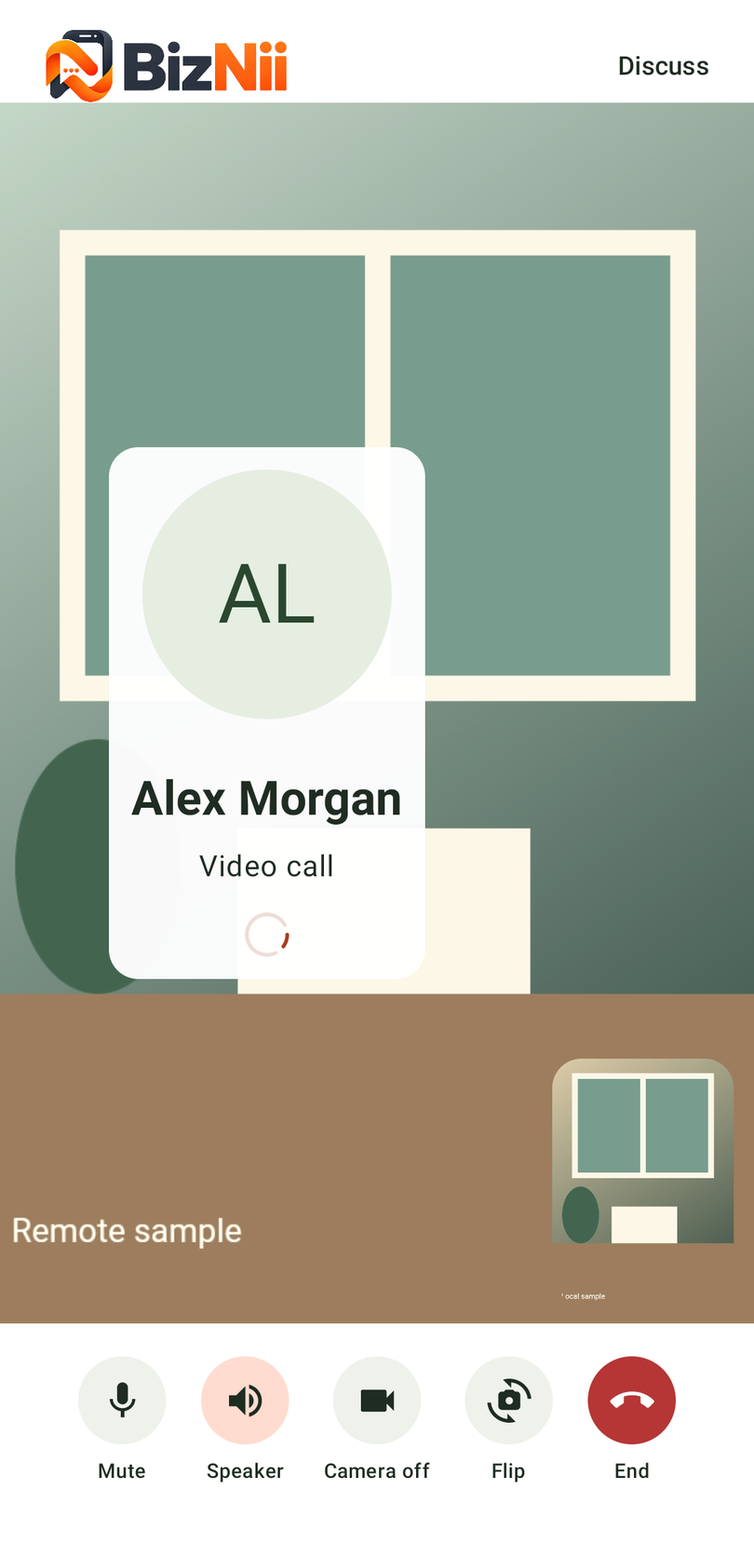
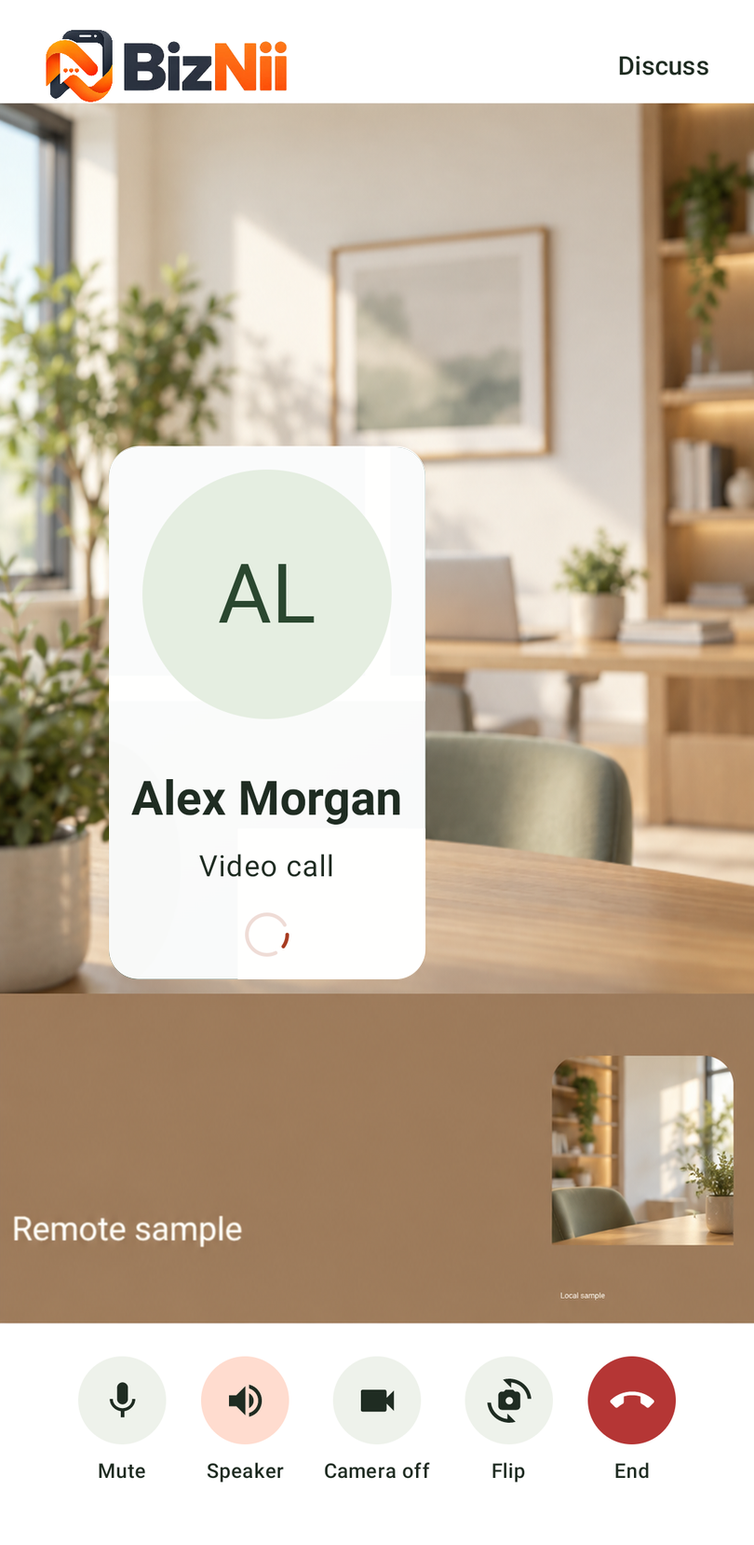
Refresh sample video backgrounds throughout Odoo website

diff --git a/odoo-mobile.html b/odoo-mobile.html
@@ -15,7 +15,7 @@
   <link rel="stylesheet" href="odoo-mobile-showcase.css?v=6326d0783b">
   <link rel="stylesheet" href="odoo-mobile-experience.css?v=240a3456dd">
   <script defer src="odoo-mobile-showcase.js?v=5b9981a362"></script>
-  <script defer src="odoo-mobile-experience.js?v=68d4886586"></script>
+  <script defer src="odoo-mobile-experience.js?v=640ca38b7c"></script>
 <link rel="canonical" href="https://biznii.com/odoo-mobile.html"></head>
 <body>
   <a class="skip" href="#main">Skip to content</a>
@@ -89,12 +89,12 @@
 <section class="section soft" id="calls"><div class="wrap">
   <div class="section-heading wide"><p class="eyebrow">DISCUSS / ONE-TO-ONE CALLS</p><h2>A quick question.<br><em>A familiar voice.</em></h2><p class="lead">Move from a private chat to a voice or video call. Connect with another BizNii user, or a colleague in standard Odoo Discuss on a supported PC browser configuration.</p></div>
   <div class="call-story-grid"><article><h3>Answer straight from the ring</h3><p>See who is calling. Answer a video invitation with video or choose audio only. With background listening enabled and Android delivery permitted, incoming calls can reach you outside the chat and on the lock screen.</p><a class="zoom" href="assets/odoo/showcase/call-incoming-video.png"><img src="assets/odoo/showcase/call-incoming-video.png" alt="Alex Morgan’s incoming video call with Answer video, Audio only and Decline choices" loading="lazy" width="810" height="1658"></a></article>
-  <article><h3>Keep the controls in reach</h3><p>Mute, choose speaker output, switch cameras or turn video off. Remote video and your small local preview stay clear of the controls; connection status appears beneath the call identity.</p><a class="zoom" href="assets/odoo/showcase/call-video.png"><img src="assets/odoo/showcase/call-video.png" alt="Active video call with controlled sample media, local preview above mute, speaker, camera and end controls" loading="lazy" width="810" height="1658"></a></article>
+  <article><h3>Keep the controls in reach</h3><p>Mute, choose speaker output, switch cameras or turn video off. Remote video and your small local preview stay clear of the controls; connection status appears beneath the call identity.</p><a class="zoom" href="assets/odoo/showcase/call-video.png?v=office-20261027"><img src="assets/odoo/showcase/call-video.png?v=office-20261027" alt="Active video call with controlled sample media, local preview above mute, speaker, camera and end controls" loading="lazy" width="810" height="1658"></a></article>
   <article><h3>Your app, your appearance</h3><p>Choose Light, Dark or System, with optional Android dynamic colours. The same call surface follows your appearance when opened from the foreground or a background invitation.</p><a class="zoom" href="assets/odoo/showcase/call-incoming-video-dark.png"><img src="assets/odoo/showcase/call-incoming-video-dark.png" alt="The same incoming Alex Morgan video invitation using the app’s Dark appearance" loading="lazy" width="810" height="1658"></a></article></div>
   <p class="fine">One-to-one calls require a supported regular Odoo 16–20 release and username/password sign-in. Odoo 14/15, API-key connections and unsupported rolling Online builds do not support calling. Wi-Fi and mobile-data connectivity depend on the network path and Odoo’s configured services; some networks need an available relay. <a href="#boundaries">Connection and background requirements ↓</a></p>
 </div></section>
 
-<section class="section soft" id="explore"><div class="wrap experience-grid"><div class="experience-copy"><p class="eyebrow">YOUR WORKSPACE, AT YOUR FINGERTIPS</p><h2>A little less tapping.<br><em>A lot more doing.</em></h2><p class="lead">Overview, To Do, Sales, Money and More. Your everyday Odoo work, organised around the way you use it.</p><p class="screen-instruction">Tap the tabs, cards and highlighted actions to explore real app screens with sample data. These examples stay on this page; no Odoo account is connected. Call media uses controlled sample scenes.</p><div class="native-tabs" role="tablist" aria-label="App workspaces"><button id="workspace-overview" role="tab" aria-selected="true" aria-controls="native-panel" data-screen="overview">Overview</button><button id="workspace-todo" role="tab" aria-selected="false" aria-controls="native-panel" tabindex="-1" data-screen="todo">To Do</button><button id="workspace-sales" role="tab" aria-selected="false" aria-controls="native-panel" tabindex="-1" data-screen="sales">Sales</button><button id="workspace-money" role="tab" aria-selected="false" aria-controls="native-panel" tabindex="-1" data-screen="money">Money</button><button id="workspace-more" role="tab" aria-selected="false" aria-controls="native-panel" tabindex="-1" data-screen="more">More</button></div><div class="native-description" aria-live="polite"><h3 id="native-title">Your business overview</h3><p id="native-description">Follow outstanding invoices, financial summaries and your next actions in one place.</p></div><div class="native-subtabs" id="sales-screen-tabs" role="group" aria-label="Sales pages" hidden><button data-screen="sales" aria-pressed="true">Quotations</button><button data-screen="orders" aria-pressed="false">Orders</button><button data-screen="products" aria-pressed="false">Products</button></div><div class="native-subtabs" id="more-screen-tabs" role="group" aria-label="More pages" hidden><button data-screen="more" aria-pressed="true">All tools</button><button data-screen="customers" aria-pressed="false">Customers</button><button data-screen="customer-history" aria-pressed="false">Customer history</button><button data-screen="calendar" aria-pressed="false">Calendar</button><button data-screen="discuss-list" aria-pressed="false">Discuss</button><button data-screen="incoming-video" aria-pressed="false">Calls</button><button data-screen="stock" aria-pressed="false">Stock</button><button data-screen="purchasing" aria-pressed="false">Purchasing</button></div><a class="text-link" href="#feature-directory">Find your workflow ↗</a></div><div class="phone-wrap"><figure class="native-phone" id="native-panel" role="tabpanel" aria-labelledby="workspace-overview"><div class="phone-explore-controls"><button id="phone-back" type="button" disabled aria-label="Previous app screen">← Back</button><button id="phone-hints" type="button" aria-pressed="true">Show tap areas</button></div><div class="native-screen"><img id="native-screen-image" src="assets/odoo/showcase/workspace-overview.png" alt="BizNii for Odoo Overview workspace" width="810" height="1658"><div id="phone-hotspots" class="phone-hotspots hints-on" aria-label="Screen actions"></div><nav class="native-phone-tabs" aria-label="Phone workspace navigation"><button data-screen="overview" aria-label="Open Overview" aria-current="page"></button><button data-screen="todo" aria-label="Open To Do"></button><button data-screen="sales" aria-label="Open Sales"></button><button data-screen="money" aria-label="Open Money"></button><button data-screen="more" aria-label="Open More"></button></nav></div><figcaption id="native-caption" aria-live="polite">Overview</figcaption></figure></div></div></section>
+<section class="section soft" id="explore"><div class="wrap experience-grid"><div class="experience-copy"><p class="eyebrow">YOUR WORKSPACE, AT YOUR FINGERTIPS</p><h2>A little less tapping.<br><em>A lot more doing.</em></h2><p class="lead">Overview, To Do, Sales, Money and More. Your everyday Odoo work, organised around the way you use it.</p><p class="screen-instruction">Tap the tabs, cards and highlighted actions to explore real app screens with sample data. These examples stay on this page; no Odoo account is connected. Call media uses illustrative sample backgrounds.</p><div class="native-tabs" role="tablist" aria-label="App workspaces"><button id="workspace-overview" role="tab" aria-selected="true" aria-controls="native-panel" data-screen="overview">Overview</button><button id="workspace-todo" role="tab" aria-selected="false" aria-controls="native-panel" tabindex="-1" data-screen="todo">To Do</button><button id="workspace-sales" role="tab" aria-selected="false" aria-controls="native-panel" tabindex="-1" data-screen="sales">Sales</button><button id="workspace-money" role="tab" aria-selected="false" aria-controls="native-panel" tabindex="-1" data-screen="money">Money</button><button id="workspace-more" role="tab" aria-selected="false" aria-controls="native-panel" tabindex="-1" data-screen="more">More</button></div><div class="native-description" aria-live="polite"><h3 id="native-title">Your business overview</h3><p id="native-description">Follow outstanding invoices, financial summaries and your next actions in one place.</p></div><div class="native-subtabs" id="sales-screen-tabs" role="group" aria-label="Sales pages" hidden><button data-screen="sales" aria-pressed="true">Quotations</button><button data-screen="orders" aria-pressed="false">Orders</button><button data-screen="products" aria-pressed="false">Products</button></div><div class="native-subtabs" id="more-screen-tabs" role="group" aria-label="More pages" hidden><button data-screen="more" aria-pressed="true">All tools</button><button data-screen="customers" aria-pressed="false">Customers</button><button data-screen="customer-history" aria-pressed="false">Customer history</button><button data-screen="calendar" aria-pressed="false">Calendar</button><button data-screen="discuss-list" aria-pressed="false">Discuss</button><button data-screen="incoming-video" aria-pressed="false">Calls</button><button data-screen="stock" aria-pressed="false">Stock</button><button data-screen="purchasing" aria-pressed="false">Purchasing</button></div><a class="text-link" href="#feature-directory">Find your workflow ↗</a></div><div class="phone-wrap"><figure class="native-phone" id="native-panel" role="tabpanel" aria-labelledby="workspace-overview"><div class="phone-explore-controls"><button id="phone-back" type="button" disabled aria-label="Previous app screen">← Back</button><button id="phone-hints" type="button" aria-pressed="true">Show tap areas</button></div><div class="native-screen"><img id="native-screen-image" src="assets/odoo/showcase/workspace-overview.png" alt="BizNii for Odoo Overview workspace" width="810" height="1658"><div id="phone-hotspots" class="phone-hotspots hints-on" aria-label="Screen actions"></div><nav class="native-phone-tabs" aria-label="Phone workspace navigation"><button data-screen="overview" aria-label="Open Overview" aria-current="page"></button><button data-screen="todo" aria-label="Open To Do"></button><button data-screen="sales" aria-label="Open Sales"></button><button data-screen="money" aria-label="Open Money"></button><button data-screen="more" aria-label="Open More"></button></nav></div><figcaption id="native-caption" aria-live="polite">Overview</figcaption></figure></div></div></section>
 <section class="section widgets-v2" id="widgets"><div class="wrap">
   <div class="widget-showcase-head"><p class="eyebrow">YOUR ANDROID HOME SCREEN</p><h2>Useful information before you even open the app.</h2><p>Move through the months, open a day’s work or follow a conversation. Your next action is always close.</p></div>
   <div class="widget-controls"><div class="widget-switcher" role="group" aria-label="Choose a home-screen widget"><button class="widget-switch active" data-widget="calendar" aria-pressed="true">Calendar widget</button><button class="widget-switch" data-widget="discuss" aria-pressed="false">Discuss widget</button></div><div class="widget-theme-switch" role="group" aria-label="Widget appearance"><button data-widget-theme="light" aria-pressed="true">Light</button><button data-widget-theme="dark" aria-pressed="false">Dark</button></div></div>
@@ -114,7 +114,7 @@
   <dialog id="widget-note-dialog" class="experience-dialog"><form id="widget-note-form"><div class="dialog-heading"><h3>Add a quick note</h3><button type="button" data-close-note aria-label="Close quick note">×</button></div><label for="note-title">Task</label><input id="note-title" required maxlength="80" placeholder="Follow up with a customer"><label for="note-date">Date</label><input id="note-date" type="date" required><label for="note-colour">Task colour</label><select id="note-colour"><option value="green">Green</option><option value="blue">Blue</option><option value="coral">Coral</option><option value="purple">Purple</option></select><p class="sample-note">This adds a sample task to the calendar on this page.</p><button type="submit" class="experience-action">Add to calendar</button></form></dialog>
 </div></section>
 
-<section class="section wrap" id="screens"><div class="section-heading"><p class="eyebrow">THE SCREEN GALLERY</p><h2>Work that travels<br><em>with you.</em></h2><p>Open any screen to inspect it. Explore calls and appearance above, and all calendar modes in the phone.</p></div><div class="gallery-filters" role="group" aria-label="Screen categories"><button type="button" data-gallery-filter="all" aria-pressed="true">All screens</button><button type="button" data-gallery-filter="work" aria-pressed="false">Business</button><button type="button" data-gallery-filter="field" aria-pressed="false">Field & calendar</button><button type="button" data-gallery-filter="stock" aria-pressed="false">Stock & purchases</button><button type="button" data-gallery-filter="team" aria-pressed="false">Discuss & calls</button><button type="button" data-gallery-filter="widgets" aria-pressed="false">Widgets</button></div><p id="gallery-count" class="fine" role="status"></p><div class="capture-grid"><figure data-gallery-category="work"><a class="zoom" href="assets/odoo/showcase/workspace-overview.png"><img src="assets/odoo/showcase/workspace-overview.png" alt="BizNii your business overview: outstanding balances and business performance" loading="lazy" width="810" height="1658"><span>View screenshot ↗</span></a><figcaption><strong>Your business overview</strong><small>Outstanding balances and business performance</small></figcaption></figure><figure data-gallery-category="field"><a class="zoom" href="assets/odoo/showcase/workspace-todo.png"><img src="assets/odoo/showcase/workspace-todo.png" alt="BizNii the next job: customer-linked to dos and planned work" loading="lazy" width="810" height="1658"><span>View screenshot ↗</span></a><figcaption><strong>The next job</strong><small>Customer-linked To Dos and planned work</small></figcaption></figure><figure data-gallery-category="field"><a class="zoom" href="assets/odoo/showcase/job.png"><img src="assets/odoo/showcase/job.png" alt="BizNii carry the job context: materials, linked delivery and job evidence" loading="lazy" width="810" height="1658"><span>View screenshot ↗</span></a><figcaption><strong>Carry the job context</strong><small>Materials, linked delivery and job evidence</small></figcaption></figure><figure data-gallery-category="field"><a class="zoom" href="assets/odoo/showcase/workspace-calendar.png"><img src="assets/odoo/showcase/workspace-calendar.png" alt="BizNii give work its time: day, week and month views in the phone navigator" loading="lazy" width="810" height="1658"><span>View screenshot ↗</span></a><figcaption><strong>Give work its time</strong><small>Day, Week and Month views in the phone navigator</small></figcaption></figure><figure data-gallery-category="work"><a class="zoom" href="assets/odoo/showcase/workspace-customer-detail.png"><img src="assets/odoo/showcase/workspace-customer-detail.png" alt="BizNii know your customer: profile, contact actions and documents" loading="lazy" width="810" height="1658"><span>View screenshot ↗</span></a><figcaption><strong>Know your customer</strong><small>Profile, contact actions and documents</small></figcaption></figure><figure data-gallery-category="work"><a class="zoom" href="assets/odoo/showcase/workspace-customer-history.png"><img src="assets/odoo/showcase/workspace-customer-history.png" alt="BizNii follow the history: related tasks, quotations and invoices" loading="lazy" width="810" height="1658"><span>View screenshot ↗</span></a><figcaption><strong>Follow the history</strong><small>Related tasks, quotations and invoices</small></figcaption></figure><figure data-gallery-category="work"><a class="zoom" href="assets/odoo/showcase/workspace-quotation-editor.png"><img src="assets/odoo/showcase/workspace-quotation-editor.png" alt="BizNii prepare the quotation: customer, reference and product lines" loading="lazy" width="810" height="1658"><span>View screenshot ↗</span></a><figcaption><strong>Prepare the quotation</strong><small>Customer, reference and product lines</small></figcaption></figure><figure data-gallery-category="work"><a class="zoom" href="assets/odoo/showcase/workspace-money.png"><img src="assets/odoo/showcase/workspace-money.png" alt="BizNii see what is due: invoice states and amounts in money" loading="lazy" width="810" height="1658"><span>View screenshot ↗</span></a><figcaption><strong>See what is due</strong><small>Invoice states and amounts in Money</small></figcaption></figure><figure data-gallery-category="stock"><a class="zoom" href="assets/odoo/showcase/workspace-purchasing.png"><img src="assets/odoo/showcase/workspace-purchasing.png" alt="BizNii prepare replenishment: supplier rfqs and expected arrivals" loading="lazy" width="810" height="1658"><span>View screenshot ↗</span></a><figcaption><strong>Prepare replenishment</strong><small>Supplier RFQs and expected arrivals</small></figcaption></figure><figure data-gallery-category="stock"><a class="zoom" href="assets/odoo/showcase/workspace-deliveries.png"><img src="assets/odoo/showcase/workspace-deliveries.png" alt="BizNii follow the delivery: transfer states and related orders" loading="lazy" width="810" height="1658"><span>View screenshot ↗</span></a><figcaption><strong>Follow the delivery</strong><small>Transfer states and related orders</small></figcaption></figure><figure data-gallery-category="stock"><a class="zoom" href="assets/odoo/showcase/workspace-van-stock.png"><img src="assets/odoo/showcase/workspace-van-stock.png" alt="BizNii bring the right materials: on-hand, reserved and available quantities" loading="lazy" width="810" height="1658"><span>View screenshot ↗</span></a><figcaption><strong>Bring the right materials</strong><small>On-hand, reserved and available quantities</small></figcaption></figure><figure data-gallery-category="stock"><a class="zoom" href="assets/odoo/showcase/workspace-kits.png"><img src="assets/odoo/showcase/workspace-kits.png" alt="BizNii keep components together: supported kits and bills of materials" loading="lazy" width="810" height="1658"><span>View screenshot ↗</span></a><figcaption><strong>Keep components together</strong><small>Supported kits and bills of materials</small></figcaption></figure><figure data-gallery-category="stock"><a class="zoom" href="assets/odoo/showcase/workspace-warranties.png"><img src="assets/odoo/showcase/workspace-warranties.png" alt="BizNii trace the installation: serial numbers, warranty dates and local certificates" loading="lazy" width="810" height="1658"><span>View screenshot ↗</span></a><figcaption><strong>Trace the installation</strong><small>Serial numbers, warranty dates and local certificates</small></figcaption></figure><figure data-gallery-category="team"><a class="zoom" href="assets/odoo/showcase/discuss-list.png"><img src="assets/odoo/showcase/discuss-list.png" alt="BizNii find the conversation: chats, inbox and mentions" loading="lazy" width="810" height="1658"><span>View screenshot ↗</span></a><figcaption><strong>Find the conversation</strong><small>Chats, Inbox and Mentions</small></figcaption></figure><figure data-gallery-category="team"><a class="zoom" href="assets/odoo/showcase/discussion.png"><img src="assets/odoo/showcase/discussion.png" alt="BizNii keep in touch: private messages in odoo discuss" loading="lazy" width="810" height="1658"><span>View screenshot ↗</span></a><figcaption><strong>Keep in touch</strong><small>Private messages in Odoo Discuss</small></figcaption></figure><figure data-gallery-category="team"><a class="zoom" href="assets/odoo/showcase/call-incoming-voice.png"><img src="assets/odoo/showcase/call-incoming-voice.png" alt="BizNii see who is calling: named incoming voice call" loading="lazy" width="810" height="1658"><span>View screenshot ↗</span></a><figcaption><strong>See who is calling</strong><small>Named incoming voice call</small></figcaption></figure><figure data-gallery-category="team"><a class="zoom" href="assets/odoo/showcase/call-voice.png"><img src="assets/odoo/showcase/call-voice.png" alt="BizNii stay in control: mute, speaker and end controls" loading="lazy" width="810" height="1658"><span>View screenshot ↗</span></a><figcaption><strong>Stay in control</strong><small>Mute, speaker and end controls</small></figcaption></figure><figure data-gallery-category="team"><a class="zoom" href="assets/odoo/showcase/call-video-connecting.png"><img src="assets/odoo/showcase/call-video-connecting.png" alt="BizNii know the connection state: indicator and local preview clear of controls" loading="lazy" width="810" height="1658"><span>View screenshot ↗</span></a><figcaption><strong>Know the connection state</strong><small>Indicator and local preview clear of controls</small></figcaption></figure><figure data-gallery-category="widgets"><a class="zoom" href="assets/odoo/showcase/widget-calendar.png"><img src="assets/odoo/showcase/widget-calendar.png" alt="BizNii your month at a glance: native monthly activity widget" loading="lazy" width="810" height="1013"><span>View screenshot ↗</span></a><figcaption><strong>Your month at a glance</strong><small>Native monthly activity widget</small></figcaption></figure><figure data-gallery-category="widgets"><a class="zoom" href="assets/odoo/showcase/widget-discuss.png"><img src="assets/odoo/showcase/widget-discuss.png" alt="BizNii a conversation away: native discuss rows and private-call shortcuts" loading="lazy" width="810" height="1013"><span>View screenshot ↗</span></a><figcaption><strong>A conversation away</strong><small>Native Discuss rows and private-call shortcuts</small></figcaption></figure><figure data-gallery-category="field"><a class="zoom" href="assets/odoo/showcase/offline.png"><img src="assets/odoo/showcase/offline.png" alt="BizNii keep supported work moving: queued offline task with visible sync state" loading="lazy" width="810" height="1658"><span>View screenshot ↗</span></a><figcaption><strong>Keep supported work moving</strong><small>Queued offline task with visible sync state</small></figcaption></figure></div><p class="fine">Screens use fictional sample data. Widget examples demonstrate their native appearance; the interactive examples use page-local sample records.</p></section>
+<section class="section wrap" id="screens"><div class="section-heading"><p class="eyebrow">THE SCREEN GALLERY</p><h2>Work that travels<br><em>with you.</em></h2><p>Open any screen to inspect it. Explore calls and appearance above, and all calendar modes in the phone.</p></div><div class="gallery-filters" role="group" aria-label="Screen categories"><button type="button" data-gallery-filter="all" aria-pressed="true">All screens</button><button type="button" data-gallery-filter="work" aria-pressed="false">Business</button><button type="button" data-gallery-filter="field" aria-pressed="false">Field & calendar</button><button type="button" data-gallery-filter="stock" aria-pressed="false">Stock & purchases</button><button type="button" data-gallery-filter="team" aria-pressed="false">Discuss & calls</button><button type="button" data-gallery-filter="widgets" aria-pressed="false">Widgets</button></div><p id="gallery-count" class="fine" role="status"></p><div class="capture-grid"><figure data-gallery-category="work"><a class="zoom" href="assets/odoo/showcase/workspace-overview.png"><img src="assets/odoo/showcase/workspace-overview.png" alt="BizNii your business overview: outstanding balances and business performance" loading="lazy" width="810" height="1658"><span>View screenshot ↗</span></a><figcaption><strong>Your business overview</strong><small>Outstanding balances and business performance</small></figcaption></figure><figure data-gallery-category="field"><a class="zoom" href="assets/odoo/showcase/workspace-todo.png"><img src="assets/odoo/showcase/workspace-todo.png" alt="BizNii the next job: customer-linked to dos and planned work" loading="lazy" width="810" height="1658"><span>View screenshot ↗</span></a><figcaption><strong>The next job</strong><small>Customer-linked To Dos and planned work</small></figcaption></figure><figure data-gallery-category="field"><a class="zoom" href="assets/odoo/showcase/job.png"><img src="assets/odoo/showcase/job.png" alt="BizNii carry the job context: materials, linked delivery and job evidence" loading="lazy" width="810" height="1658"><span>View screenshot ↗</span></a><figcaption><strong>Carry the job context</strong><small>Materials, linked delivery and job evidence</small></figcaption></figure><figure data-gallery-category="field"><a class="zoom" href="assets/odoo/showcase/workspace-calendar.png"><img src="assets/odoo/showcase/workspace-calendar.png" alt="BizNii give work its time: day, week and month views in the phone navigator" loading="lazy" width="810" height="1658"><span>View screenshot ↗</span></a><figcaption><strong>Give work its time</strong><small>Day, Week and Month views in the phone navigator</small></figcaption></figure><figure data-gallery-category="work"><a class="zoom" href="assets/odoo/showcase/workspace-customer-detail.png"><img src="assets/odoo/showcase/workspace-customer-detail.png" alt="BizNii know your customer: profile, contact actions and documents" loading="lazy" width="810" height="1658"><span>View screenshot ↗</span></a><figcaption><strong>Know your customer</strong><small>Profile, contact actions and documents</small></figcaption></figure><figure data-gallery-category="work"><a class="zoom" href="assets/odoo/showcase/workspace-customer-history.png"><img src="assets/odoo/showcase/workspace-customer-history.png" alt="BizNii follow the history: related tasks, quotations and invoices" loading="lazy" width="810" height="1658"><span>View screenshot ↗</span></a><figcaption><strong>Follow the history</strong><small>Related tasks, quotations and invoices</small></figcaption></figure><figure data-gallery-category="work"><a class="zoom" href="assets/odoo/showcase/workspace-quotation-editor.png"><img src="assets/odoo/showcase/workspace-quotation-editor.png" alt="BizNii prepare the quotation: customer, reference and product lines" loading="lazy" width="810" height="1658"><span>View screenshot ↗</span></a><figcaption><strong>Prepare the quotation</strong><small>Customer, reference and product lines</small></figcaption></figure><figure data-gallery-category="work"><a class="zoom" href="assets/odoo/showcase/workspace-money.png"><img src="assets/odoo/showcase/workspace-money.png" alt="BizNii see what is due: invoice states and amounts in money" loading="lazy" width="810" height="1658"><span>View screenshot ↗</span></a><figcaption><strong>See what is due</strong><small>Invoice states and amounts in Money</small></figcaption></figure><figure data-gallery-category="stock"><a class="zoom" href="assets/odoo/showcase/workspace-purchasing.png"><img src="assets/odoo/showcase/workspace-purchasing.png" alt="BizNii prepare replenishment: supplier rfqs and expected arrivals" loading="lazy" width="810" height="1658"><span>View screenshot ↗</span></a><figcaption><strong>Prepare replenishment</strong><small>Supplier RFQs and expected arrivals</small></figcaption></figure><figure data-gallery-category="stock"><a class="zoom" href="assets/odoo/showcase/workspace-deliveries.png"><img src="assets/odoo/showcase/workspace-deliveries.png" alt="BizNii follow the delivery: transfer states and related orders" loading="lazy" width="810" height="1658"><span>View screenshot ↗</span></a><figcaption><strong>Follow the delivery</strong><small>Transfer states and related orders</small></figcaption></figure><figure data-gallery-category="stock"><a class="zoom" href="assets/odoo/showcase/workspace-van-stock.png"><img src="assets/odoo/showcase/workspace-van-stock.png" alt="BizNii bring the right materials: on-hand, reserved and available quantities" loading="lazy" width="810" height="1658"><span>View screenshot ↗</span></a><figcaption><strong>Bring the right materials</strong><small>On-hand, reserved and available quantities</small></figcaption></figure><figure data-gallery-category="stock"><a class="zoom" href="assets/odoo/showcase/workspace-kits.png"><img src="assets/odoo/showcase/workspace-kits.png" alt="BizNii keep components together: supported kits and bills of materials" loading="lazy" width="810" height="1658"><span>View screenshot ↗</span></a><figcaption><strong>Keep components together</strong><small>Supported kits and bills of materials</small></figcaption></figure><figure data-gallery-category="stock"><a class="zoom" href="assets/odoo/showcase/workspace-warranties.png"><img src="assets/odoo/showcase/workspace-warranties.png" alt="BizNii trace the installation: serial numbers, warranty dates and local certificates" loading="lazy" width="810" height="1658"><span>View screenshot ↗</span></a><figcaption><strong>Trace the installation</strong><small>Serial numbers, warranty dates and local certificates</small></figcaption></figure><figure data-gallery-category="team"><a class="zoom" href="assets/odoo/showcase/discuss-list.png"><img src="assets/odoo/showcase/discuss-list.png" alt="BizNii find the conversation: chats, inbox and mentions" loading="lazy" width="810" height="1658"><span>View screenshot ↗</span></a><figcaption><strong>Find the conversation</strong><small>Chats, Inbox and Mentions</small></figcaption></figure><figure data-gallery-category="team"><a class="zoom" href="assets/odoo/showcase/discussion.png"><img src="assets/odoo/showcase/discussion.png" alt="BizNii keep in touch: private messages in odoo discuss" loading="lazy" width="810" height="1658"><span>View screenshot ↗</span></a><figcaption><strong>Keep in touch</strong><small>Private messages in Odoo Discuss</small></figcaption></figure><figure data-gallery-category="team"><a class="zoom" href="assets/odoo/showcase/call-incoming-voice.png"><img src="assets/odoo/showcase/call-incoming-voice.png" alt="BizNii see who is calling: named incoming voice call" loading="lazy" width="810" height="1658"><span>View screenshot ↗</span></a><figcaption><strong>See who is calling</strong><small>Named incoming voice call</small></figcaption></figure><figure data-gallery-category="team"><a class="zoom" href="assets/odoo/showcase/call-voice.png"><img src="assets/odoo/showcase/call-voice.png" alt="BizNii stay in control: mute, speaker and end controls" loading="lazy" width="810" height="1658"><span>View screenshot ↗</span></a><figcaption><strong>Stay in control</strong><small>Mute, speaker and end controls</small></figcaption></figure><figure data-gallery-category="team"><a class="zoom" href="assets/odoo/showcase/call-video-connecting.png?v=office-20261027"><img src="assets/odoo/showcase/call-video-connecting.png?v=office-20261027" alt="BizNii know the connection state: indicator and local preview clear of controls" loading="lazy" width="810" height="1658"><span>View screenshot ↗</span></a><figcaption><strong>Know the connection state</strong><small>Indicator and local preview clear of controls</small></figcaption></figure><figure data-gallery-category="widgets"><a class="zoom" href="assets/odoo/showcase/widget-calendar.png"><img src="assets/odoo/showcase/widget-calendar.png" alt="BizNii your month at a glance: native monthly activity widget" loading="lazy" width="810" height="1013"><span>View screenshot ↗</span></a><figcaption><strong>Your month at a glance</strong><small>Native monthly activity widget</small></figcaption></figure><figure data-gallery-category="widgets"><a class="zoom" href="assets/odoo/showcase/widget-discuss.png"><img src="assets/odoo/showcase/widget-discuss.png" alt="BizNii a conversation away: native discuss rows and private-call shortcuts" loading="lazy" width="810" height="1013"><span>View screenshot ↗</span></a><figcaption><strong>A conversation away</strong><small>Native Discuss rows and private-call shortcuts</small></figcaption></figure><figure data-gallery-category="field"><a class="zoom" href="assets/odoo/showcase/offline.png"><img src="assets/odoo/showcase/offline.png" alt="BizNii keep supported work moving: queued offline task with visible sync state" loading="lazy" width="810" height="1658"><span>View screenshot ↗</span></a><figcaption><strong>Keep supported work moving</strong><small>Queued offline task with visible sync state</small></figcaption></figure></div><p class="fine">Screens use fictional sample data. Widget examples demonstrate their native appearance; the interactive examples use page-local sample records.</p></section>
 <section class="section wrap" id="in-action"><div class="section-heading"><p class="eyebrow">INSIDE THE APP</p><h2>From your desk<br><em>to the next job.</em></h2><p>Explore the screen gallery and the interactive phone. Each example uses fictional business data.</p><a class="text-link" href="#screens">Open the screen gallery ↓</a></div></section>
 
     <section class="section wrap" id="security"><div class="security-heading"><div><p class="eyebrow">07 / CONNECTED. PROTECTED.</p><h2>Your work travels.<br><em>Your context stays yours.</em></h2></div><p>Switch between named Odoo connections and companies. Open cached work quickly. Keep credentials, tasks and queued changes protected on the device.</p></div>

diff --git a/odoo-mobile-experience.js b/odoo-mobile-experience.js
@@ -183,7 +183,8 @@ function showScreen(key, remember = true) {
   const page = screenPages[key]; if (!page) return;
   if (remember && key !== currentScreen) screenHistory.push(currentScreen);
   currentScreen = key;
-  screenImage.src = `assets/odoo/showcase/${page.asset || 'workspace-' + key}.png`;
+  const mediaVersion = ['call-video', 'call-video-connecting'].includes(page.asset) ? '?v=office-20261027' : '';
+  screenImage.src = `assets/odoo/showcase/${page.asset || 'workspace-' + key}.png${mediaVersion}`;
   screenImage.alt = `BizNii for Odoo ${page.label} page`;
   document.querySelector('#native-title').textContent = page.title;
   document.querySelector('#native-description').textContent = page.description;

diff --git a/docs/ODOO_WEBSITE_REFRESH_2026-10-27.md b/docs/ODOO_WEBSITE_REFRESH_2026-10-27.md
@@ -40,3 +40,7 @@ Website/capture implementation commit: `2e3b103b9e246084326ad60c8924669f0a7a829a
 Local source: `http://127.0.0.1:8088/showcase.html`; exported public preview: `http://127.0.0.1:8089/odoo-mobile.html`. These are local previews, not a deployment. Screenshots and raw capture logs are in the task's `outputs/biznii-website-refresh-2026-10-27` folder.
 
 There are no deployment workflows in the public checkout. Its README identifies GitHub Pages publishing from `main` with `CNAME=biznii.com`. The app workflow runs verification on `main`, version tags or explicit dispatch; it does not run on this feature branch. Review-branch pushes do not publish this site. The exact separate publishing step is to review and merge `codex/odoo-website-refresh` into the public repository's `main` branch; the configured GitHub Pages branch build then publishes it. No merge, publishing-branch push, tag, release, production build or deployment is included here. GitHub CLI API authentication is unavailable, so Pages settings were established from the repository's documented publishing configuration and absence of workflow files, not a fresh authenticated Settings API read.
+
+## Office sample background update — 27 October 2026
+
+At the owner's request, `call-video.png` and `call-video-connecting.png` now use imagegen office sample backgrounds in the main video area and self-preview. These two assets are presentation composites, replacing the geometric synthetic rooms described in the original capture record. The native header, control bar and connecting caller card were restored from the original captures; header and control pixels were verified unchanged. Dimensions remain 810 × 1658. No production Android code or APK changed; no new instrumentation or live calls were run. The manifest hashes describe these edited renditions. All other capture records remain unchanged. Repeat capture alone will restore the original geometric room unless this presentation edit is reapplied.

diff --git a/assets/odoo/showcase/README.md b/assets/odoo/showcase/README.md
@@ -62,3 +62,7 @@ python tools/collect-website-captures.py --serial <serial> --raw-dir <outside-ch
 ```
 
 The collector refuses physical devices and restarts adbd as root only on the selected emulator, to read Android scoped external storage. Original PNGs and the initial manifest stay in the explicit raw directory. Review every rendition and refresh this provenance/manifest before export. Old `calendar.png`, `customer.png`, `pricing.png` and `chat-demo.mp4` were retired; no obsolete media remains linked. Public marketing copy contains no capture/test implementation details beyond the page-level sample-data explanation.
+
+## Office sample background update — 27 October 2026
+
+At the owner's request, `call-video.png` and `call-video-connecting.png` now use imagegen office sample backgrounds in the main video area and self-preview. These two assets are presentation composites, replacing the geometric synthetic rooms described in the original capture record. The native header, control bar and connecting caller card were restored from the original captures; header and control pixels were verified unchanged. Dimensions remain 810 × 1658. No production Android code or APK changed; no new instrumentation or live calls were run. The manifest hashes describe these edited renditions. All other capture records remain unchanged. Repeat capture alone will restore the original geometric room unless this presentation edit is reapplied.
